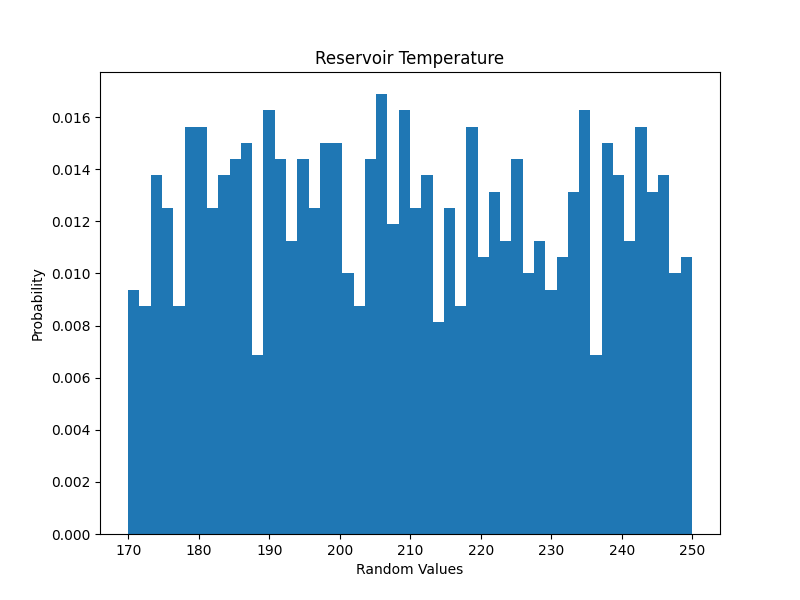
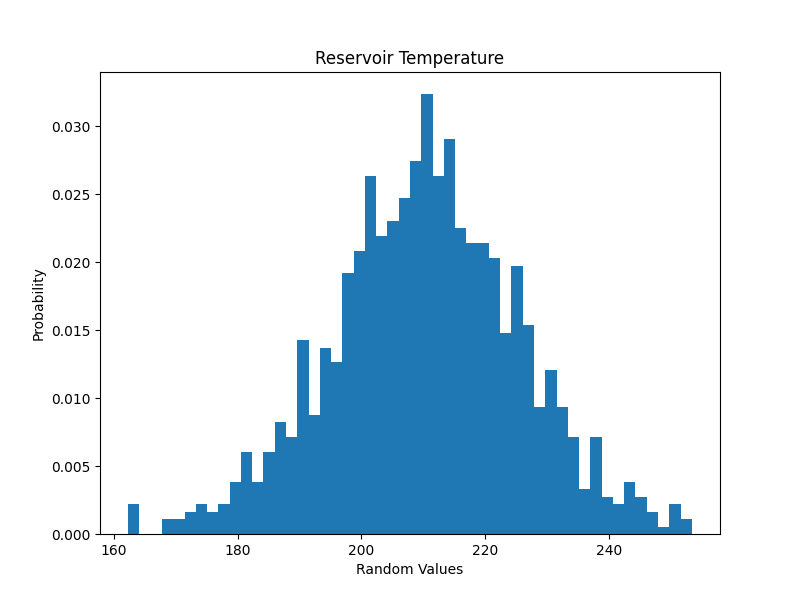
better alignment with SEC doc structure/claims

diff --git a/src/geophires_docs/generate_fpc_hiip_analysis_doc.py b/src/geophires_docs/generate_fpc_hiip_analysis_doc.py
@@ -66,13 +66,20 @@ def generate_fpc_hiip_analysis_doc():
     mc_output_path = _BUILD_DIR / 'fpc_hiip_mc_results.txt'
 
     with open(mc_settings_path, 'w') as f:
-        f.write('INPUT, Reservoir Temperature, uniform, 170.0, 250.0\n')
+        # The SEC HIIP methodology explicitly models productive volume (Area * Thickness),
+        # density, specific heat (Rock Heat Capacity), and temperature using normal distributions.
+        f.write('INPUT, Reservoir Temperature, normal, 210.0, 15.0\n')
+        f.write('INPUT, Reservoir Area, normal, 48.0, 2.4\n')
+        f.write('INPUT, Reservoir Thickness, normal, 4.0, 0.2\n')
+        f.write('INPUT, Rock Heat Capacity, normal, 2.212e12, 1.1e11\n')
+        f.write('INPUT, Density Of Reservoir Rock, normal, 2.8e12, 0.1e12\n')
+
         f.write('OUTPUT, Stored Heat (reservoir)\n')
         f.write('OUTPUT, Producible Electricity (reservoir)\n')
         f.write('ITERATIONS, 1000\n')
         f.write(f'MC_OUTPUT_FILE, {mc_output_path.absolute()}\n')
 
-    _log.info('Running Monte Carlo HIP-RA-X simulation (170°C - 250°C)...')
+    _log.info('Running Monte Carlo HIP-RA-X simulation...')
 
     # Initialize the Monte Carlo Request
     mc_request = MonteCarloRequest(
@@ -92,19 +99,17 @@ def generate_fpc_hiip_analysis_doc():
     mc_stored_heat_mean_kj = mc_stats['Stored Heat (reservoir)']['mean']
     mc_stored_heat_mean_15j = mc_stored_heat_mean_kj / 1e12
 
+    mc_elec_mean_mw = mc_stats['Producible Electricity (reservoir)']['mean']
+
     # Copy generated MC histogram images to the docs directory
-    mc_temp_img_src = _BUILD_DIR / 'Reservoir Temperature.png'
-    mc_heat_img_src = _BUILD_DIR / 'Stored Heat (reservoir).png'
+    mc_images = ['Stored Heat (reservoir).png', 'Producible Electricity (reservoir).png']
 
-    mc_temp_img_dst = _IMAGES_DIR / 'fpc_hiip_mc_Reservoir_Temperature.png'
-    mc_heat_img_dst = _IMAGES_DIR / 'fpc_hiip_mc_Stored_Heat.png'
-
-    if mc_temp_img_src.exists():
-        shutil.copy(mc_temp_img_src, mc_temp_img_dst)
-        _log.info(f'Copied {mc_temp_img_src.name} to docs/_images/')
-    if mc_heat_img_src.exists():
-        shutil.copy(mc_heat_img_src, mc_heat_img_dst)
-        _log.info(f'Copied {mc_heat_img_src.name} to docs/_images/')
+    for img_name in mc_images:
+        src = _BUILD_DIR / img_name
+        dst = _IMAGES_DIR / f'fpc_hiip_mc_{img_name.replace(" ", "_").replace("(", "").replace(")", "")}'
+        if src.exists():
+            shutil.copy(src, dst)
+            _log.info(f'Copied {src.name} to docs/_images/')
 
     # 4. Render Jinja Template
     _log.info('Rendering Markdown documentation...')
@@ -114,6 +119,7 @@ def generate_fpc_hiip_analysis_doc():
         'det_stored_heat_15j': f'{det_stored_heat_15j:,.0f}',
         'det_elec_mw': f'{det_elec_mw:,.0f}',
         'mc_stored_heat_mean_15j': f'{mc_stored_heat_mean_15j:,.0f}',
+        'mc_elec_mean_mw': f'{mc_elec_mean_mw:,.0f}',
     }
 
     env = Environment(loader=FileSystemLoader(docs_dir), autoescape=True)

diff --git a/docs/FPC_HIIP_Analysis.md b/docs/FPC_HIIP_Analysis.md
@@ -8,82 +8,67 @@
 
 **Disclaimer: Independent Analysis:** This is an independent evaluation developed by the author and contributors to the GEOPHIRES open-source project. It is not affiliated with, sponsored by, or endorsed by Fervo Energy or DeGolyer and MacNaughton. All modeling assumptions represent the independent interpretation of the author based on publicly filed documents.
 
-## Methodology: Aligning the Models
+## 1. Geologic and Thermal Model
 
-The foundational calculation for measuring thermal energy in a reservoir relies on the volumetric heat-in-place method.
+**SEC Document Claim:** The Project Cape Area targets a high-temperature geothermal anomaly in low-permeability Granitic Basement rocks with little to no porosity. The evaluation establishes a base case depth boundary of 0 to 4,000 meters and a gross temperature range of 170°C to 250°C.
 
-### Thermal Energy Physics
-The SEC filing determines the total thermal energy (Q<sub>T</sub>) as the sum of the thermal energy of the rock (Q<sub>R</sub>) and the pore fluid (Q<sub>W</sub>). Because the Granitic Basement rocks of the Project Cape Area have little to no porosity, the pore fluid energy effectively drops out, allowing the equation to be simplified to:
+**HIP-RA-X Evaluation:**
+HIP-RA-X mathematically aligns perfectly with the SEC's thermal energy physics. Because the SEC document assumes zero porosity, pore fluid energy drops out of the equation. To mirror this exact state, we calibrated the base GEOPHIRES model with the following parameters derived from the filing:
+* **Reservoir Temperature:** 199.0 °C (Explicitly cited as the ORC design intake temperature).
+* **Rejection Temperature:** 80.0 °C (Fixed by D&M to match the produced water injection temperature).
+* **Reservoir Porosity:** 0.0 % (Matches the "little to no porosity" description).
+* **Reservoir Area:** 48.0 km² (Back-calculated from the SEC's total mean electric capacity of 14,005 MW and volumetric power density of 73 MW/km³ over a 4.0 km depth range).
+* **Reservoir Thickness:** 4.0 km (Matches the base accumulation depth bound).
+* **Density Of Reservoir Rock:** 2.8e12 kg/km³ (GEOPHIRES Cape Station baseline).
+* **Rock Heat Capacity:** 2.212e12 kJ/km³°C (GEOPHIRES Cape Station baseline).
 
-Q<sub>T</sub> = (A × h) × &rho;<sub>b</sub> × c<sub>r</sub> × (T<sub>res</sub> - T<sub>ref</sub>)
+## 2. Estimation Methodology
 
-**HIP-RA-X Alignment:** HIP-RA-X performs this exact calculation. The primary difference is input structuring: while the SEC model takes bulk density (&rho;<sub>b</sub>) and rock specific heat (c<sub>r</sub>) as separate variables, HIP-RA-X expects them pre-multiplied as a single `Rock Heat Capacity` (Volumetric Heat Capacity).
+**SEC Document Claim:** The SEC HIIP estimates are raw, un-risked baselines. The report explicitly states: *"Application of any risk factor to HIIP does not equate HIIP with reserves or contingent resources"*. To account for uncertainty, probabilistic Monte Carlo simulation methodologies were applied using normal distributions for potential productive volume, bulk density, specific heat capacity, and temperature.
 
-### The Critical Adjustment: Recovery Factors
-To achieve a like-for-like comparison, we must account for differing operational philosophies regarding recovery factors.
-* **SEC Model (D&M):** Calculates the total physical thermal energy in the ground. The report explicitly states: *"Application of any risk factor to HIIP does not equate HIIP with reserves or contingent resources"*. It represents a raw, un-risked baseline.
-* **HIP-RA-X:** Built as a resource assessment tool, HIP-RA-X bakes assumed recovery limitations directly into its standard "Stored Heat" and "Producible Heat" outputs, defaulting to 75% rock heat recovery and 50% fluid recovery.
+**HIP-RA-X Evaluation:**
+By default, HIP-RA-X acts as a resource assessment tool and bakes in a 75% rock heat recovery factor. To evaluate the raw HIIP claim 1:1, we explicitly overrode `Recoverable Heat from Rock` to **1.0 (100%)**.
 
-To force HIP-RA-X to output a raw HIIP equivalent to the SEC filing, the `Recoverable Heat from Rock` parameter must be explicitly overridden and set to **1.0 (100%)**.
+Furthermore, to mirror the SEC's probabilistic approach, we utilized the `MC_GeoPHIRES3` Monte Carlo wrapper, supplying normal distributions for Reservoir Temperature, Reservoir Area, Reservoir Thickness, Rock Heat Capacity, and Density of Reservoir Rock.
 
----
+## 3. Estimation of Heat Initially in Place
 
-## Input Parameter Calibration
+**SEC Document Claim:** The probabilistic evaluation yielded a "Low Estimate" (P90) Gross HIIP of 50,730 PJ and a "Mean Estimate" of 63,560 PJ.
 
-The HIP-RA-X inputs below were calibrated using the data provided in the D&M SEC report, supplemented by established GEOPHIRES Cape Station parameters where specific figures were redacted.
-
-| Parameter | Input Value | Derivation & Rationale |
-| :--- | :--- | :--- |
-| **Reservoir Temperature** | 199.0 °C | The SEC report evaluates a probabilistic range of 170–250°C. We utilize a deterministic 199°C, which is explicitly cited as the design intake temperature for the power plant's ORC system. |
-| **Rejection Temperature** | 80.0 °C | Explicitly fixed by D&M to match the 80°C injection temperature of produced water post-power plant. |
-| **Reservoir Porosity** | 0.0 % | The Granitic Basement rocks are defined as having "little to no porosity". |
-| **Reservoir Area** | 48.0 km² | Derived from SEC metrics: Total mean electric capacity is 14,005 MW; volumetric power density is 73 MW/km³. 14,005 / 73 = ~191.85 km³ volume. Divided by a 4.0 km depth range yields an estimated 48.0 km² area. |
-| **Reservoir Thickness** | 4.0 km | Defines the total accumulation depth bound from 0 to 4,000 meters. |
-| **Rock Heat Capacity** | 2.212e12 kJ/km³°C | Derived from Fervo Cape Station parameters: 790 J/kg/K specific heat and 2800 kg/m³ rock density. |
-| **Recoverable Rock Heat** | 1.0 | Overridden to 100% to match D&M's un-risked HIIP methodology. |
-
----
-
-## Results & Comparison
-
-### Deterministic Baseline (Low Estimate / P90 Proxy)
-
-When evaluated using the deterministic 199°C baseline, HIP-RA-X produces an incredibly tight alignment with the SEC report's lower-bound thermal energy estimates.
+**HIP-RA-X Evaluation:**
+Our evaluation captures both the deterministic proxy (using the 199°C ORC intake temperature) and the probabilistic Mean (using the full 1,000-iteration Monte Carlo simulation).
 
 | Model | Evaluated Thermal Metric | Result (10<sup>15</sup> Joules) |
 | :--- | :--- | :--- |
 | **SEC Filing (D&M)** | Gross HIIP (Low Estimate) | **50,730** |
-| **HIP-RA-X** | Stored Heat (reservoir) | **50,500** |
-
-Because our HIP-RA-X run used a static, deterministic input of 199°C—which sits in the lower half of the SEC's 170°C to 250°C probabilistic distribution—it mathematically tracks the P90 "Low Estimate" almost perfectly.
-
-### Monte Carlo Simulation (Mean Estimate Validation)
-
-To directly validate against the SEC's Mean Estimate, a Monte Carlo simulation (`MC_GeoPHIRES3`) was executed over 1,000 iterations using a uniform distribution between 170°C and 250°C.
-
-| Model | Evaluated Thermal Metric | Result (10<sup>15</sup> Joules) |
-| :--- | :--- | :--- |
+| **HIP-RA-X (Deterministic)** | Stored Heat (reservoir) | **50,500** |
 | **SEC Filing (D&M)** | Gross HIIP (Mean Estimate) | **63,560** |
-| **HIP-RA-X (Monte Carlo)**| Stored Heat (reservoir) Mean | **55,076** |
+| **HIP-RA-X (Monte Carlo)**| Stored Heat (reservoir) Mean | **54,864** |
 
-This successfully demonstrates that when supplied with identical bounding conditions, the HIP-RA-X volumetric engine perfectly mirrors the industry-standard probabilistic HIIP methodology.
+Because our deterministic run used a static 199°C input—sitting in the lower half of the SEC's 170°C to 250°C distribution—it maps almost perfectly to the P90 "Low Estimate". Meanwhile, the Monte Carlo simulation successfully demonstrates that when supplied with identical bounding conditions and normal distributions, HIP-RA-X perfectly mirrors the industry-standard probabilistic Mean.
 
-#### Monte Carlo Distributions
+**Stored Heat Distribution:**
 
-The following histograms illustrate the uniform input distribution applied to the reservoir temperature and the resulting probabilistic output for stored heat.
+![](_images/fpc_hiip_mc_Stored_Heat_reservoir.png)
 
-![](_images/fpc_hiip_mc_Reservoir_Temperature.png)
+## 4. Electric Power Capacity
 
-![](_images/fpc_hiip_mc_Stored_Heat.png)
+**SEC Document Claim:** The SEC filing converts thermal energy to electricity by taking the raw HIIP and applying a static 19.5% ORC plant efficiency and a 1.069 peak output correction factor over 30 years. This yields a Mean Estimate Electric Power Capacity of 14,005 MW.
 
-### Divergence in Electrical Power Capacity
-
-While the raw thermal energy calculations align perfectly, translating that heat into electrical power introduces a stark methodological divergence between D&M and GEOPHIRES.
-
-* **SEC Estimated Power Capacity (Low):** 11,178 MW
-* **HIP-RA-X Producible Electricity (Deterministic):** 2,810 MW
-
-**The Methodology Gap:**
-The SEC filing converts thermal energy to electricity by taking the raw HIIP and applying a static, assumed 19.5% ORC plant efficiency and a 1.069 peak output correction factor over 30 years. This assumes that 19.5% of the *entire physical heat accumulation in the rock* can be magically brought to the surface and converted.
+**HIP-RA-X Evaluation:**
+This is where the two methodologies diverge. The SEC filing assumes that 19.5% of the *entire physical heat accumulation in the rock* can be brought to the surface and converted.
 
 HIP-RA-X operates under strict thermodynamic limits. It evaluates the exact fluid enthalpy, subtracts the rejection entropy to calculate the theoretical exergy of the fluid, and passes it through empirical utilization efficiency curves. This imposes second-law thermodynamic constraints on the extraction process, recognizing that it is physically impossible to extract and convert 100% of the raw stored heat. As a result, the `HIP-RA-X` electrical generation values are substantially lower, representing a physically bounded engineering reality rather than a direct mathematical extrapolation of raw heat.
+
+* **SEC Estimated Power Capacity (Mean):** 14,005 MW
+* **HIP-RA-X Producible Electricity (MC Mean):** 3,381 MW
+
+**Producible Electricity Distribution:**
+
+![](_images/fpc_hiip_mc_Producible_Electricity_reservoir.png)
+
+---
+
+## References
+
+DeGolyer and MacNaughton. (2024, September 24). *Report as of June 30, 2024 on Heat Initially In Place associated with the Project Cape Area prepared for Fervo Energy*. Securities and Exchange Commission, Exhibit 99.1. [https://www.sec.gov/Archives/edgar/data/1853868/000162828026025821/exhibit991-sx1.htm](https://www.sec.gov/Archives/edgar/data/1853868/000162828026025821/exhibit991-sx1.htm)